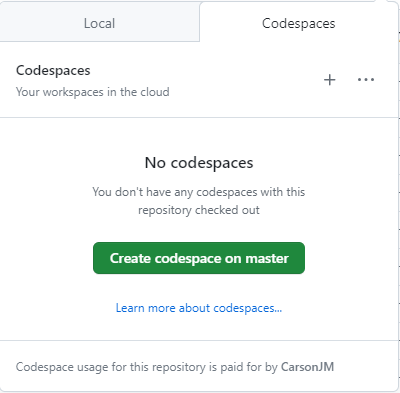
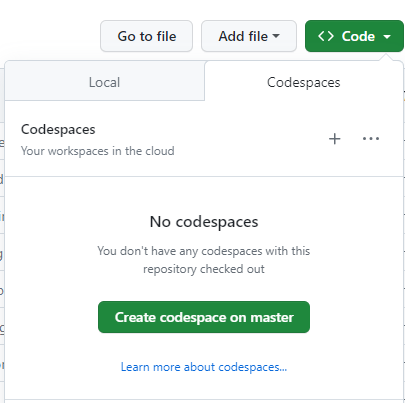
Updated formatting

diff --git a/src/content/docs/contributing/gitpod/alternatives.md b/src/content/docs/contributing/gitpod/alternatives.md
@@ -16,12 +16,12 @@ Being integrated into GitHub, Codespaces can automatically be used for every nf-
 
 To create a Codespace, you first click on the `Code` button at the top of any GitHub repository.
 <p align="center">
-  <img src="../../../../../public/images/contributing/gitpod/codespaces-button.png" alt="codespaces dropdown" width="600"/>
+  <img src="../../../../../public/images/contributing/gitpod/codespaces-button.png" alt="codespaces dropdown" width="800"/>
 </p>
 
 This will bring up a dropdown menu, you will then select the `Codespaces` tab and press the `+` sign. This will create a Codespace on the current branch of this repository.
 <p align="center">
-  <img src="../../../../../public/images/contributing/gitpod/codespaces-dropdown.png" alt="codespaces dropdown" width="300"/>
+  <img src="../../../../../public/images/contributing/gitpod/codespaces-dropdown.png" alt="codespaces dropdown" width="400"/>
 </p>
 
 After the Codespace is created, you should see something that looks very similar to a Gitpod environment (please see nf-core's [Gitpod](gitpod/index.md) page for more information). **An important difference between Gitpod and Codespaces is that `singularity`, and not `docker` profiles will need to be used to run any nextflow commands.** Otherwise, the created codespace can be used almost exactly as you would use a Gitpod environment.
@@ -39,14 +39,14 @@ VS Code Dev Containers on a local computer.
 2. **Install VS Code**: VS Code can be downloaded from the [VS Code](https://code.visualstudio.com/Download) website.
 
 3. **Install VS Code Remote Development Extension**: The remote development pack allows VS Code to be used for code edition in development containers. This extension can be downloaded from the [VS Code] website, or by typing `remote development` into the extension tab's
-<img src="../../../../../public/images/contributing/gitpod/extension.png" alt="codespaces dropdown" width="20"/> search bar
+<img src="../../../../../public/images/contributing/gitpod/extension.png" alt="codespaces dropdown" width="25"/> search bar
 
 4. **Clone a Repository in Container Volume**: Once everything is installed, open both Docker Desktop and VS Code prior going through the steps to create a local Dev Container:
-- Navigate to the `Remote Explorer` <img src="../../../../../public/images/contributing/gitpod/remote-explorer-tab.png" alt="remote explorer tab" width="20"/> tab in VS Code
+- Navigate to the `Remote Explorer` <img src="../../../../../public/images/contributing/gitpod/remote-explorer-tab.png" alt="remote explorer tab" width="25"/> tab in VS Code
 - Click the dropdown menu at the top of the panel and select `Dev Containers`
 
 <p align="center">
-<img src="../../../../../public/images/contributing/gitpod/remote-explorer-dropdown.png" alt="remote explorer tab" width="200"/>
+<img src="../../../../../public/images/contributing/gitpod/remote-explorer-dropdown.png" alt="remote explorer tab" width="400"/>
 </p>
 
 - Press the `+` sign under the dropdown menu (this is only visible when the cursor is placed over the banner).
@@ -62,17 +62,19 @@ After going through these steps, a new instance of VS Code will be created for y
 
 ## Troubleshooting
 
-1. Using docker profile in Codespace/VS Code Dev Containers
+1. **Using docker profile in Codespace/VS Code Dev Containers**
 
-Error message: `docker: Cannot connect to the Docker daemon at unix:///var/run/docker.sock. Is the docker daemon running?.`
+**Error message:** `docker: Cannot connect to the Docker daemon at unix:///var/run/docker.sock. Is the docker daemon running?.`
 
-Solution: Ensure that `-profile singularity` is used. The `docker` profile will not work in Codespaces or VS Code Dev Containers.
+**Solution:** Ensure that `-profile singularity` is used. The `docker` profile will not work in Codespaces or VS Code Dev Containers.
 
-2. Non-privileged status when using singularity profile
+<br>
 
-Error message: `*FATAL: container creation failed: mount hook function failure: mount /proc/self/fd/3->/var/lib/apptainer/mnt/session/rootfs error: while mounting image /proc/self/fd/3: squashfuse_ll exited with status 1: fuse: device not found, try 'modprobe fuse' first*`
+2. **Non-privileged status when using singularity profile**
 
-Solution: Add the following line to the `.devcontainer/devcontainer.json` file:
+**Error message:** `FATAL: container creation failed: mount hook function failure: mount /proc/self/fd/3->/var/lib/apptainer/mnt/session/rootfs error: while mounting image /proc/self/fd/3: squashfuse_ll exited with status 1: fuse: device not found, try 'modprobe fuse' first`
+
+**Solution:** Add the following line to the `.devcontainer/devcontainer.json` file:
 `"runArgs": ["--privileged"],`
 
 
